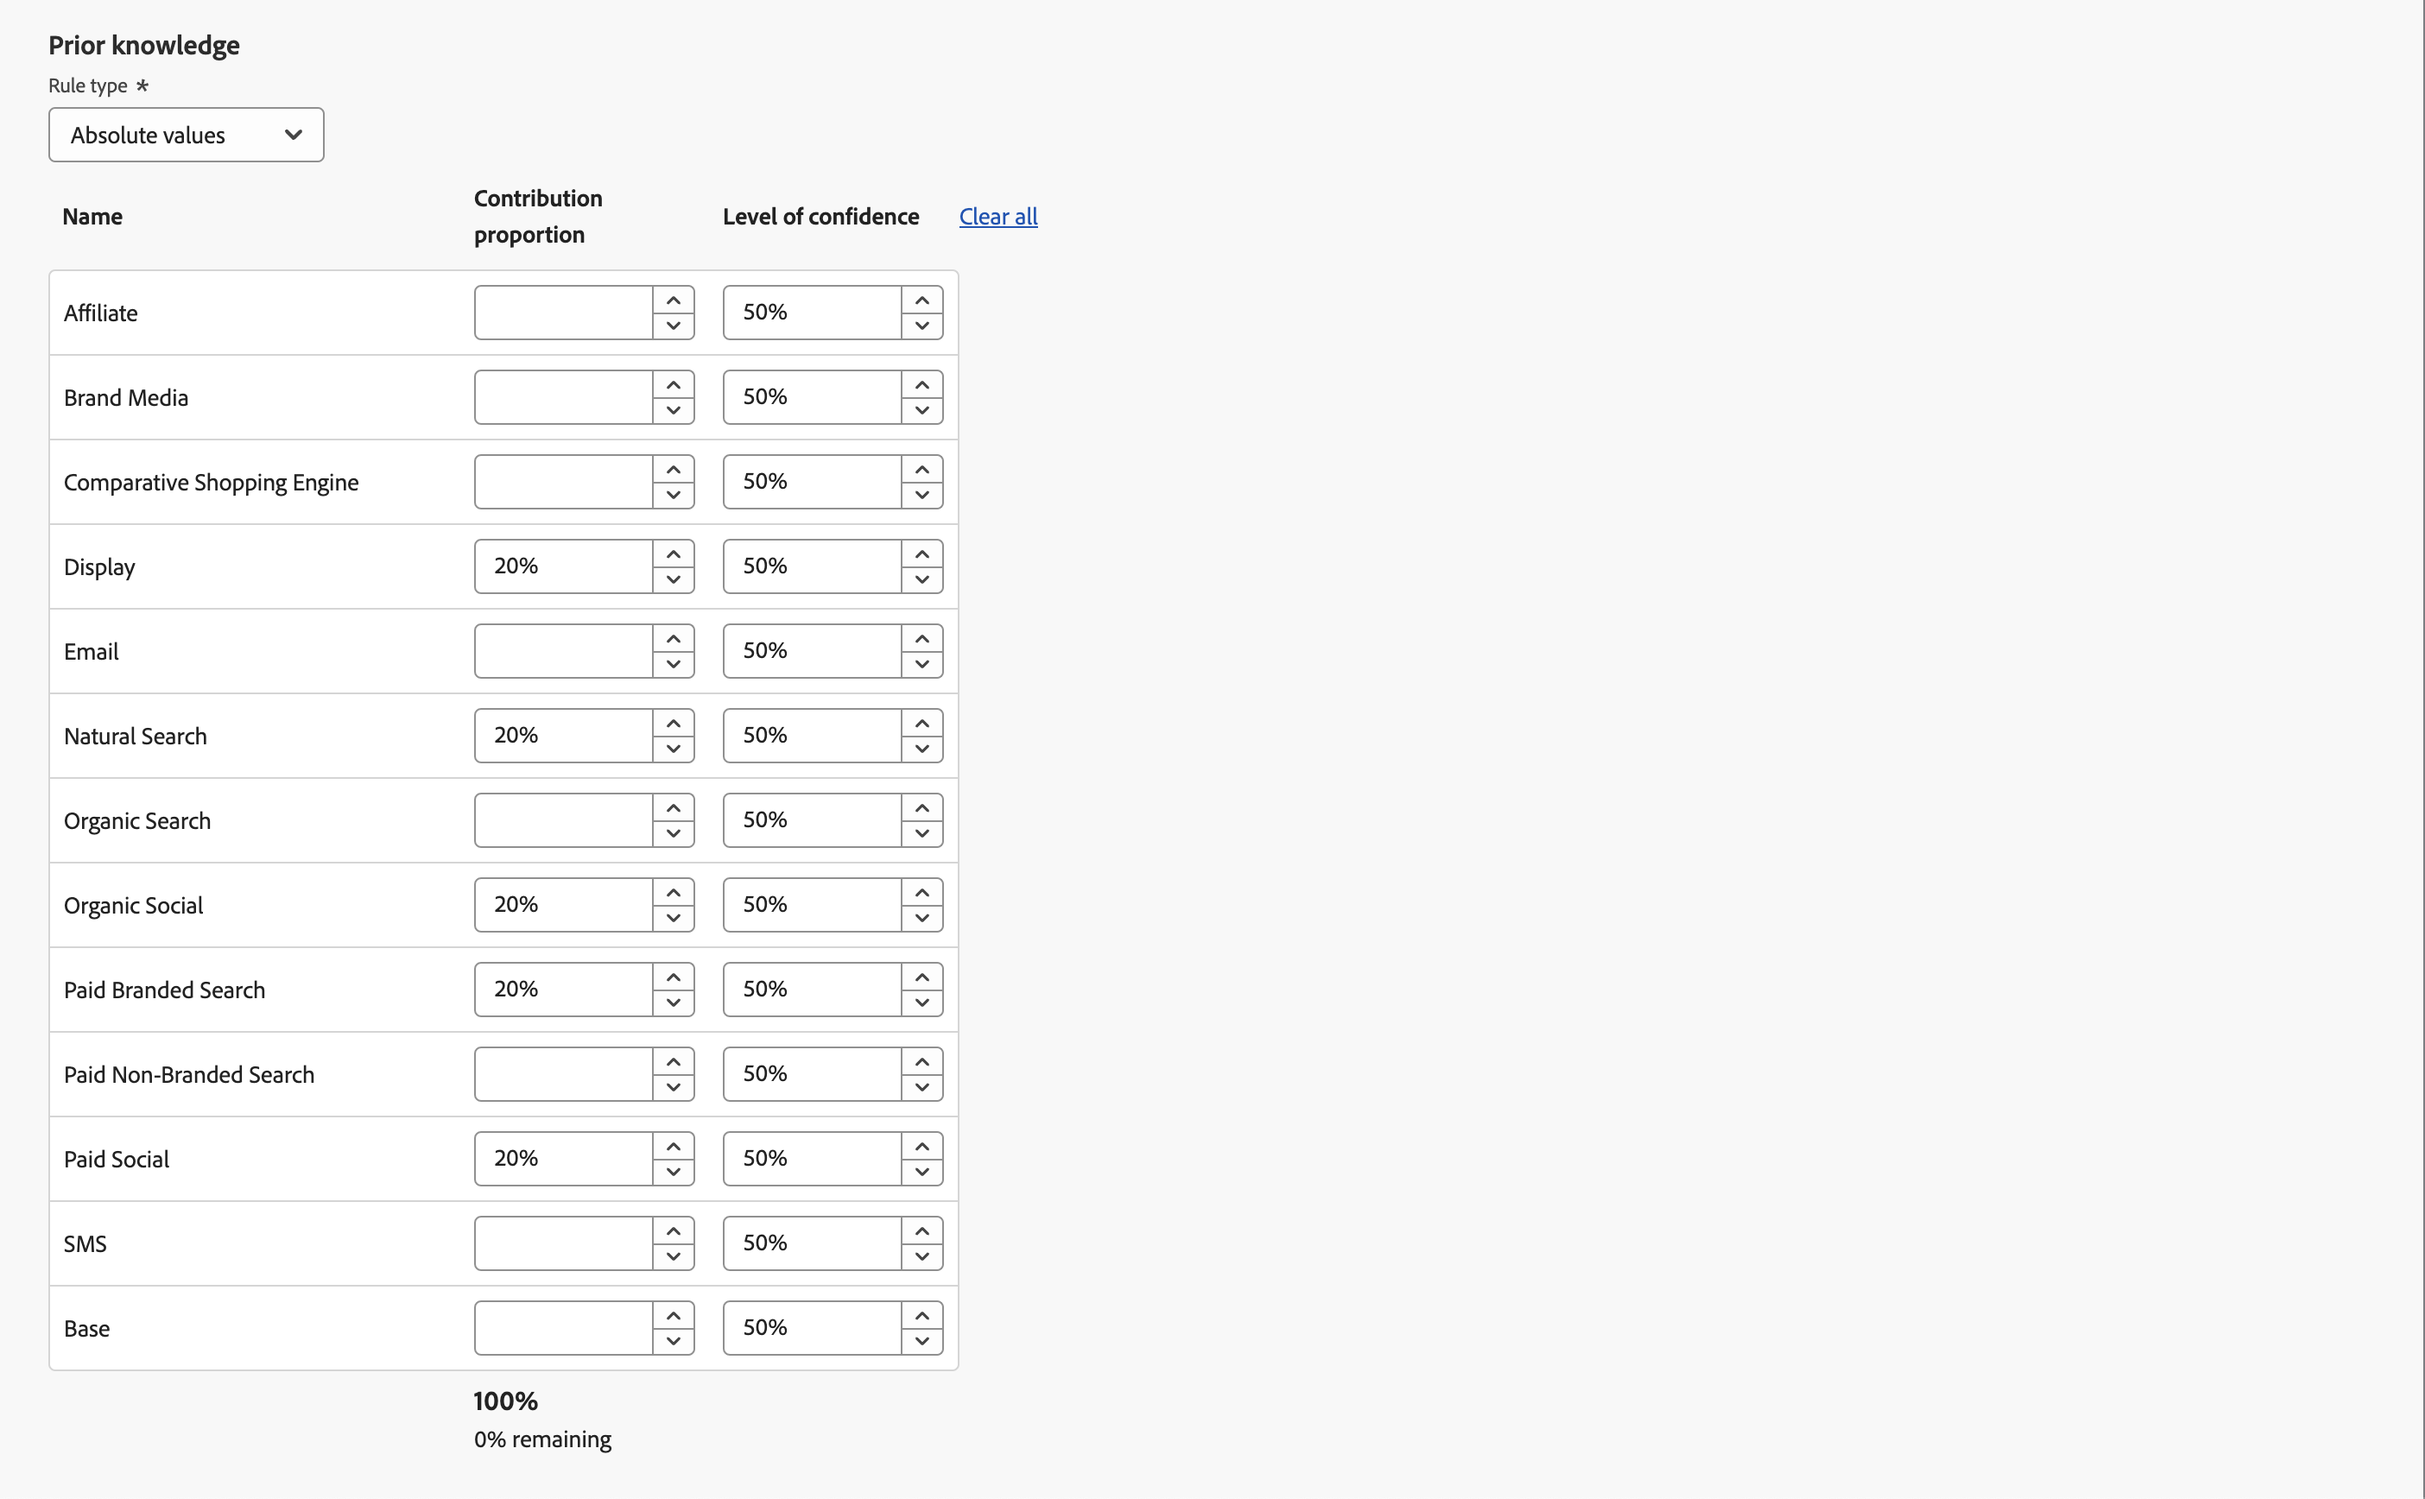
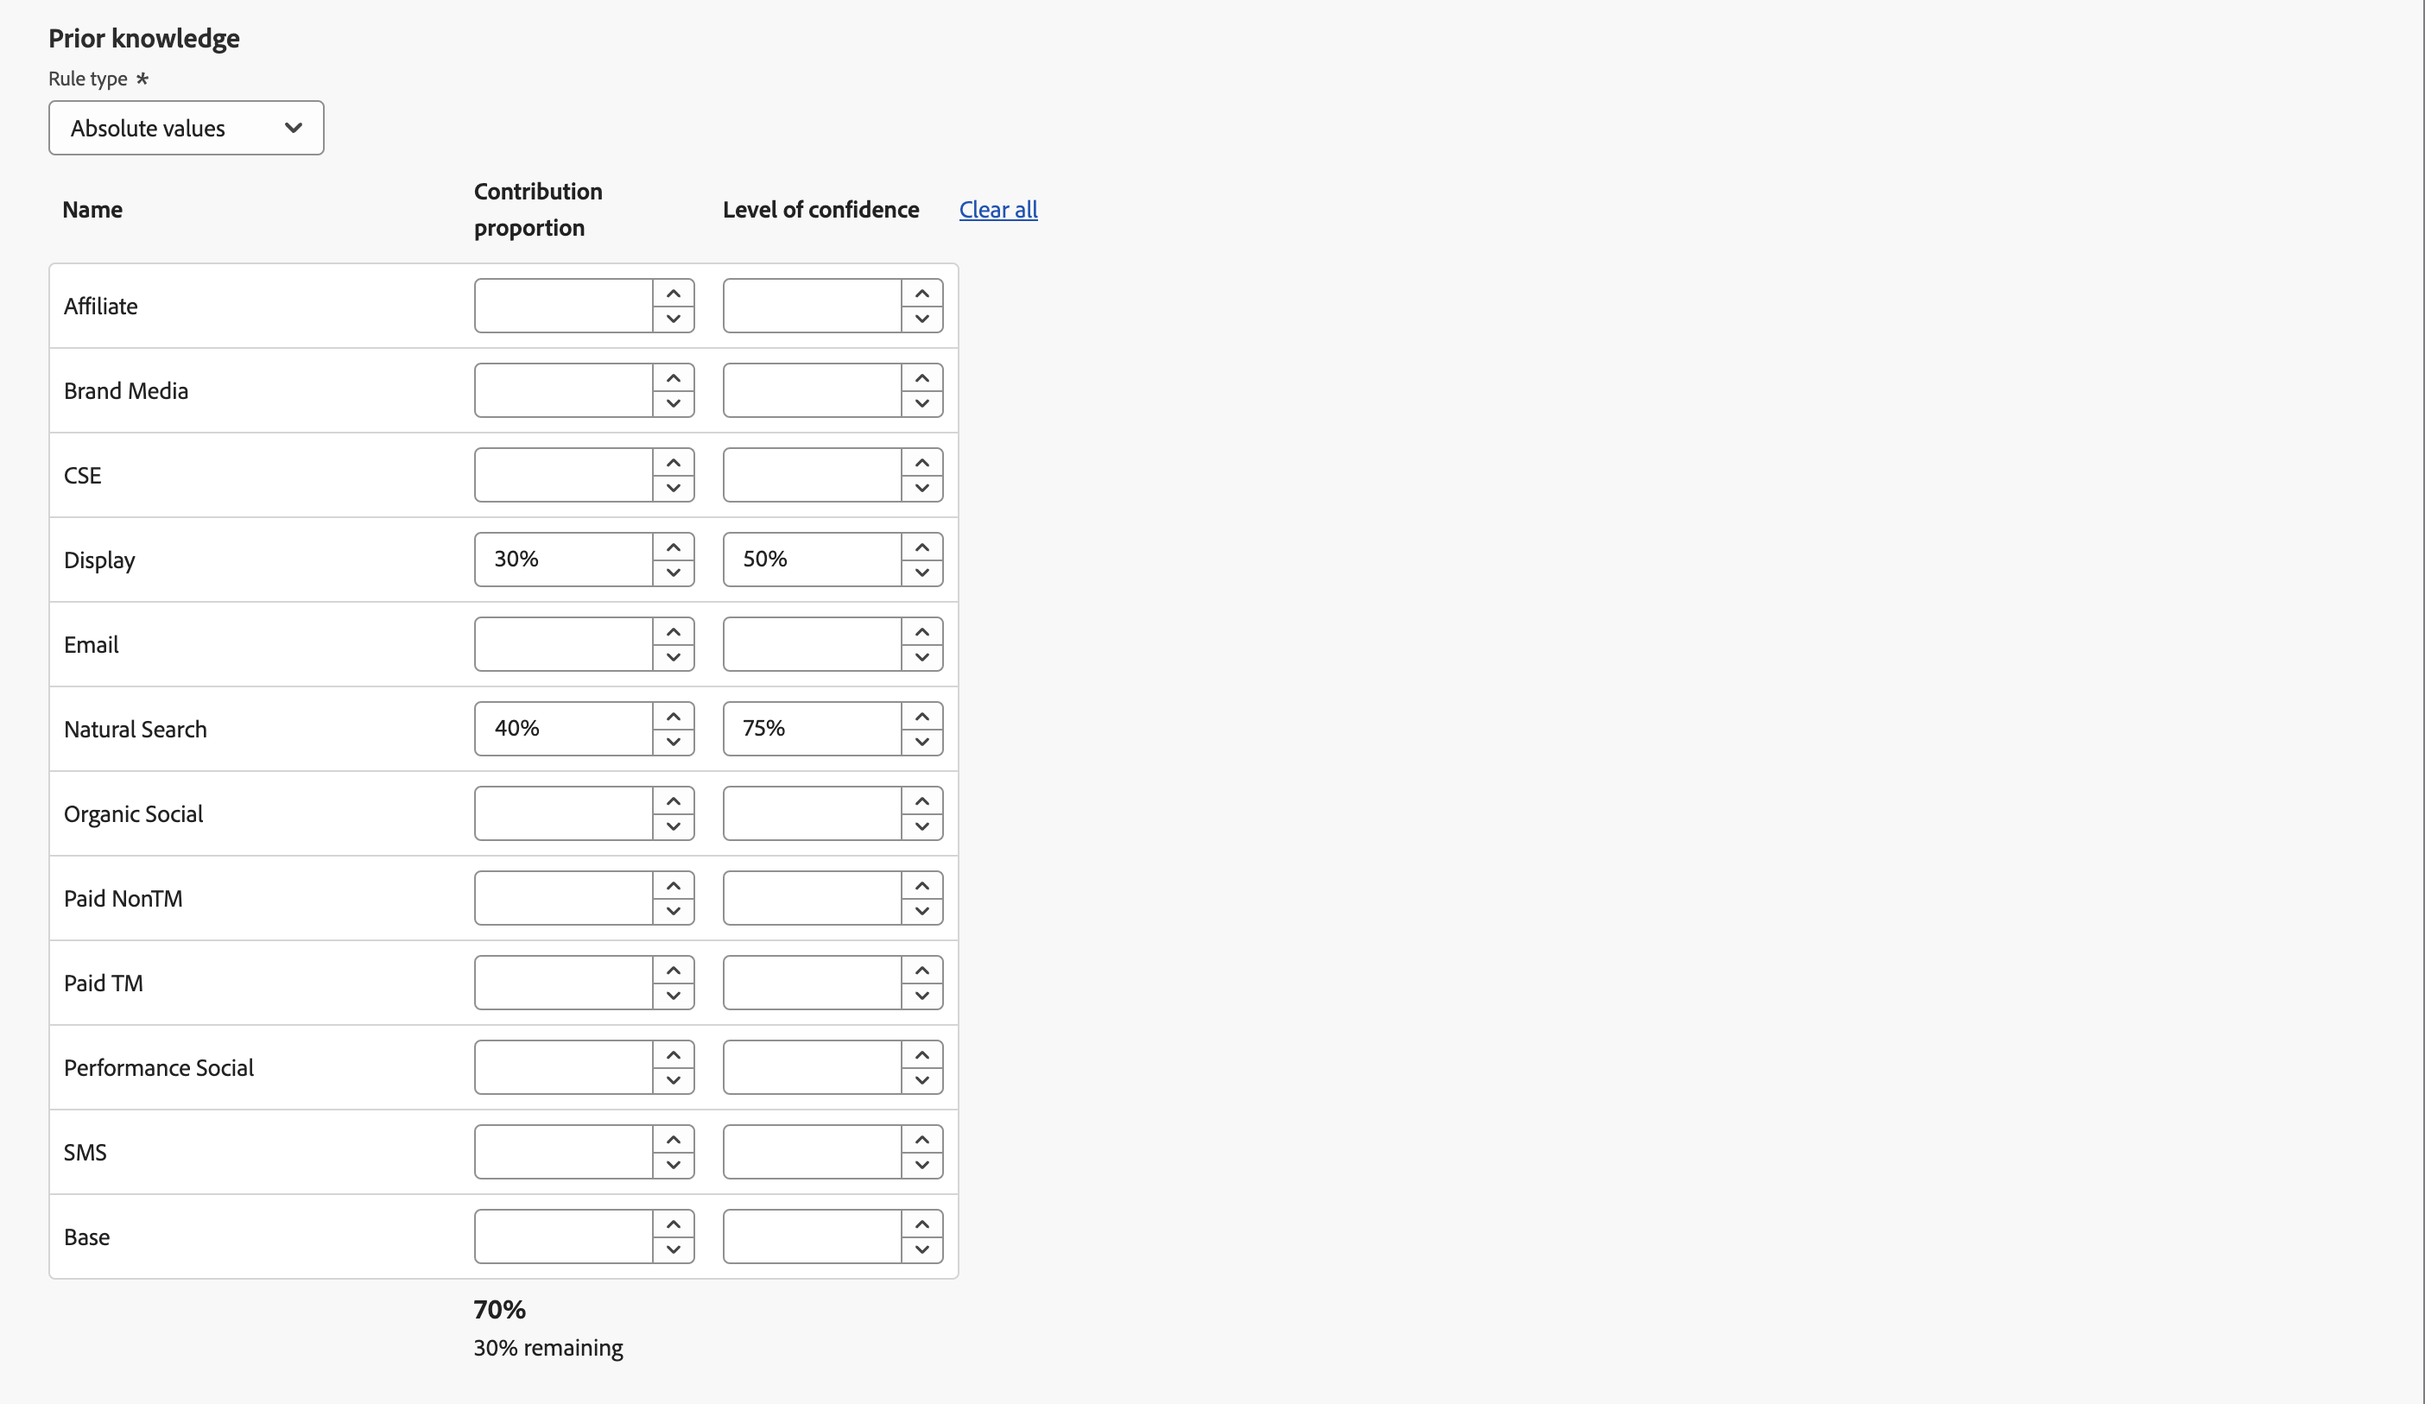
Added corrections

diff --git a/help/models/create.md b/help/models/create.md
@@ -121,9 +121,9 @@ To build your custom AI-powered models, the interface provides a step-by-step gu
 
        1. Select the **[!UICONTROL Rule type]**.
 
-       1. Distribute percentages for each of the channels listed under **[!UICONTROL Name]**, using the **[!UICONTROL Contribution proportion]** column. Ensure that the total distribution of percentages adds up to 100%. 
+       1. Specify contribution percentages for any of the channels listed under **[!UICONTROL Name]**, using the **[!UICONTROL Contribution proportion]** column. 
 
-       1. You can add for each channel a **[!UICONTROL Level of confidence]** percentage.
+       1. Where appropriate, you can add for each channel a **[!UICONTROL Level of confidence]** percentage.
 
        1. When needed, use **[!UICONTROL Clear all]** to clear all input values for the **[!UICONTROL Contribution proportion]** and **[!UICONTROL Level of confidence]** columns.
 

diff --git a/help/dashboard/plans.md b/help/dashboard/plans.md
@@ -8,7 +8,7 @@ exl-id: 930fc1d5-8e28-4610-af7b-c4ec91f86a8a
 
 >[!NOTE]
 >
->[!BADGE Alpha]{type=Informative} The Plans tab in Mix Modeler is an alpha feature and its functionality is subject to change.
+>[!BADGE Alpha]{type=Informative} The Plans tab in Mix Modeler Overview is an alpha feature and its functionality is subject to change.
 
 
 The Plans tab in Mix Modeler Overview shows widgets for [!UICONTROL Budget], [!UICONTROL Revenue], [!UICONTROL ROI] and [!UICONTROL KPI].
